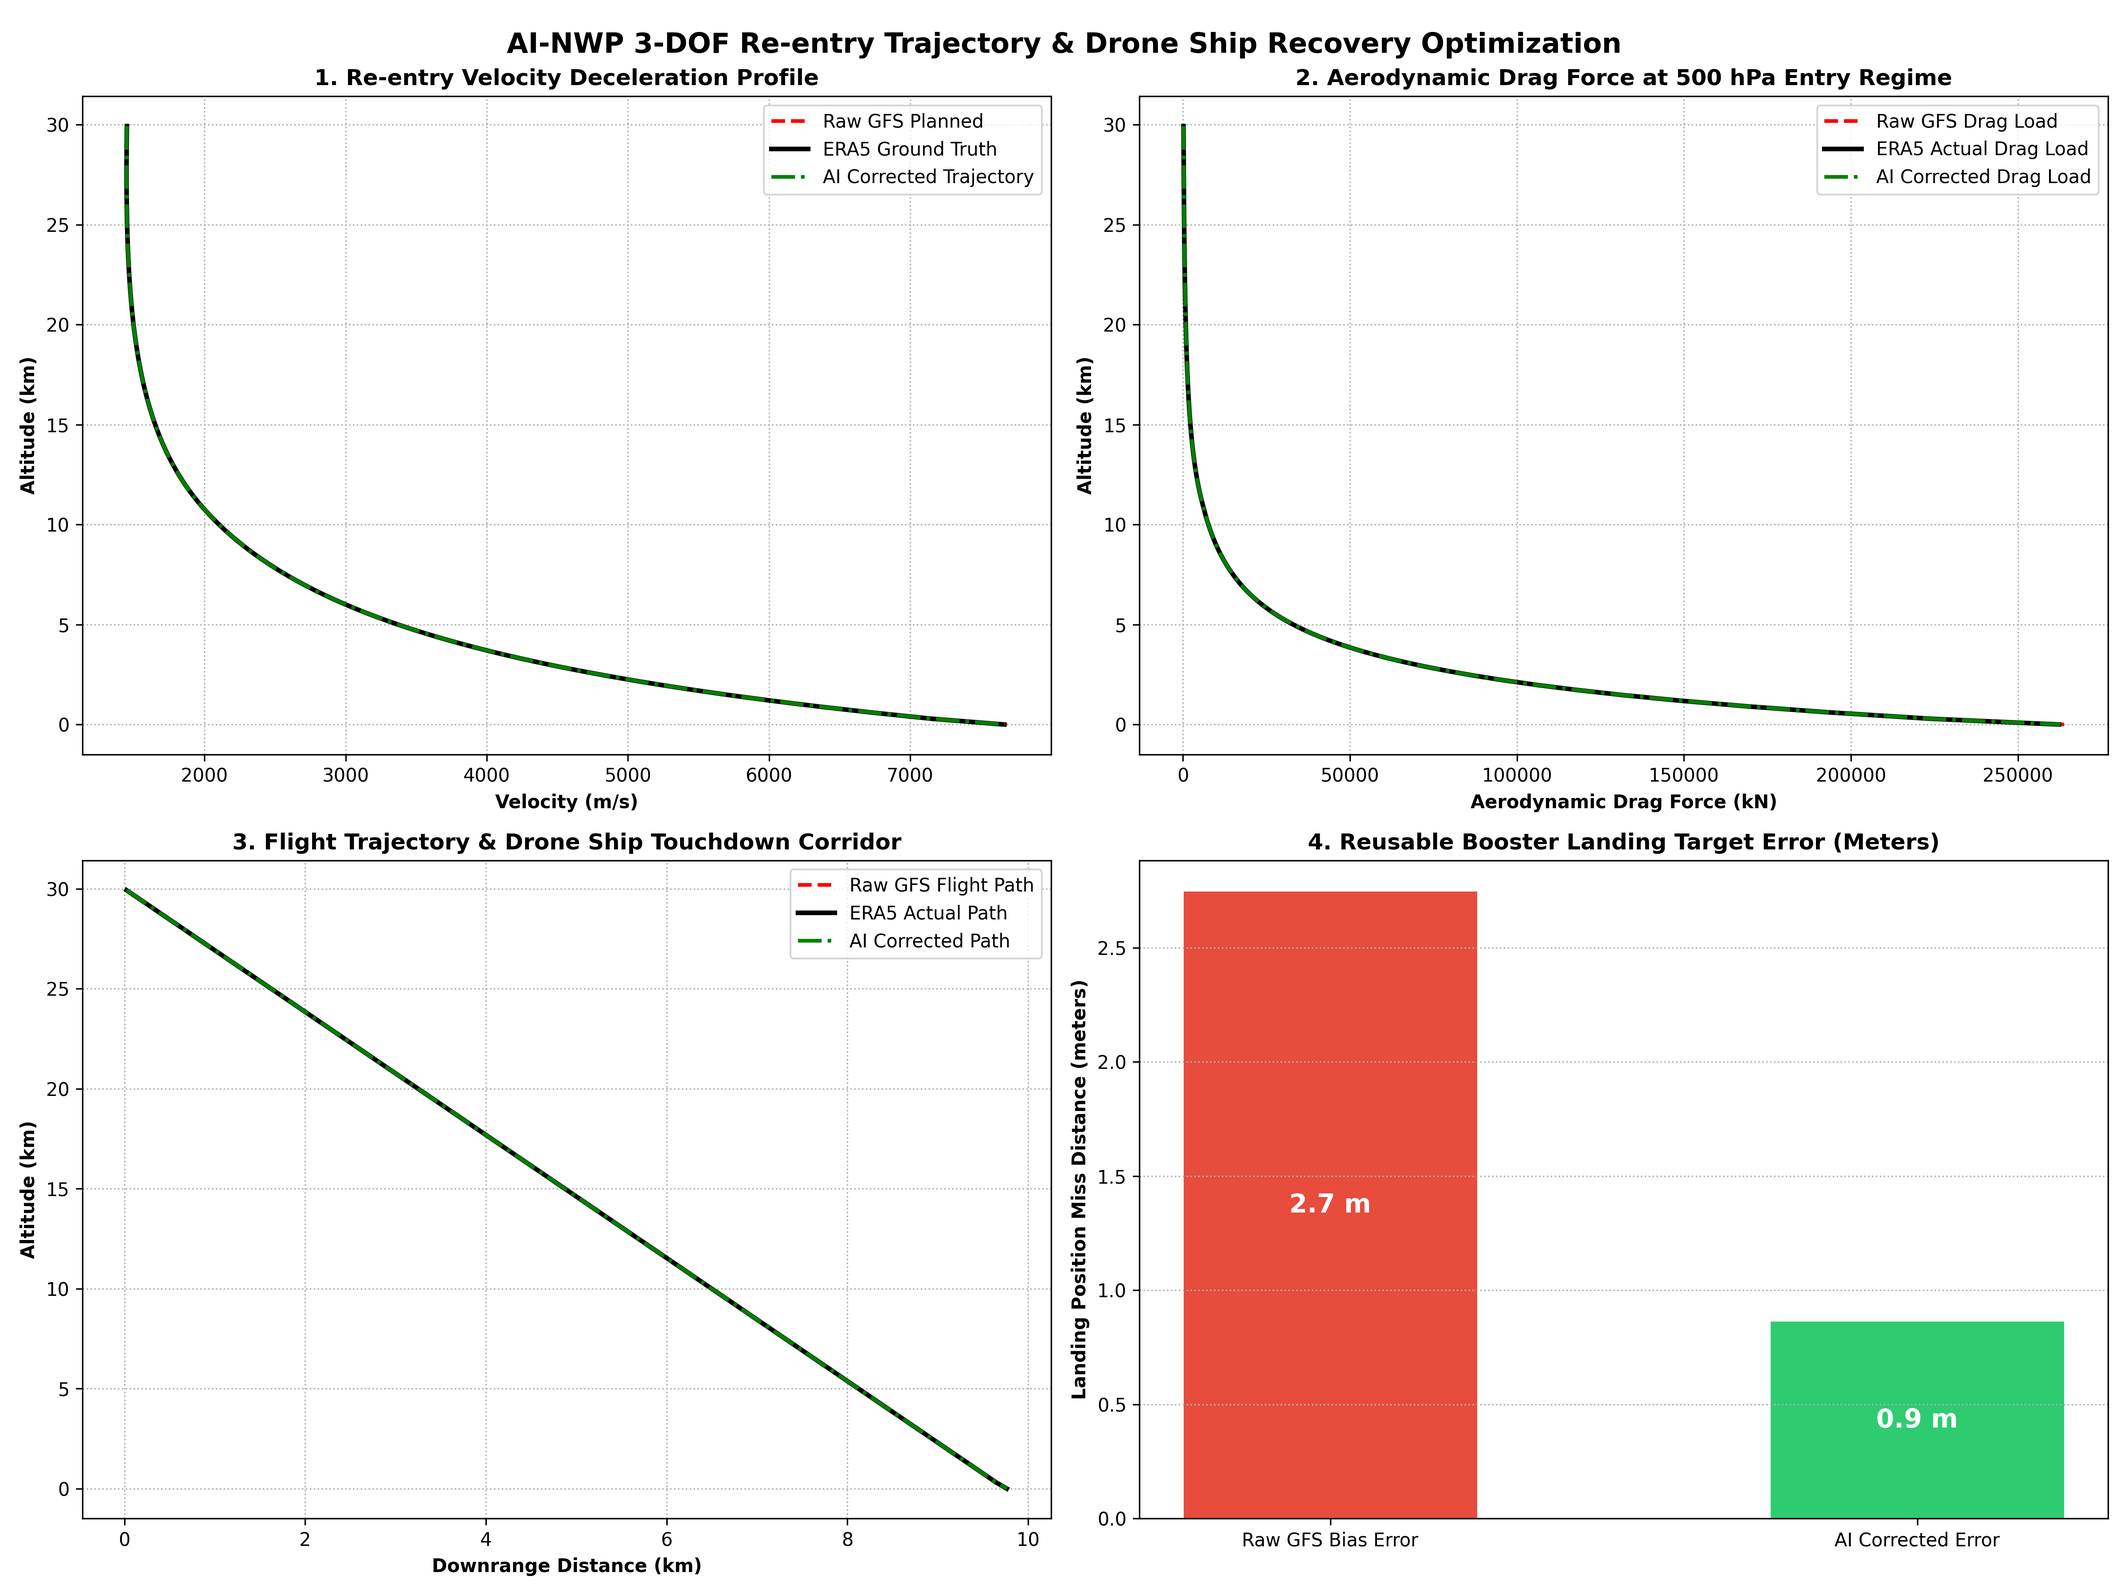
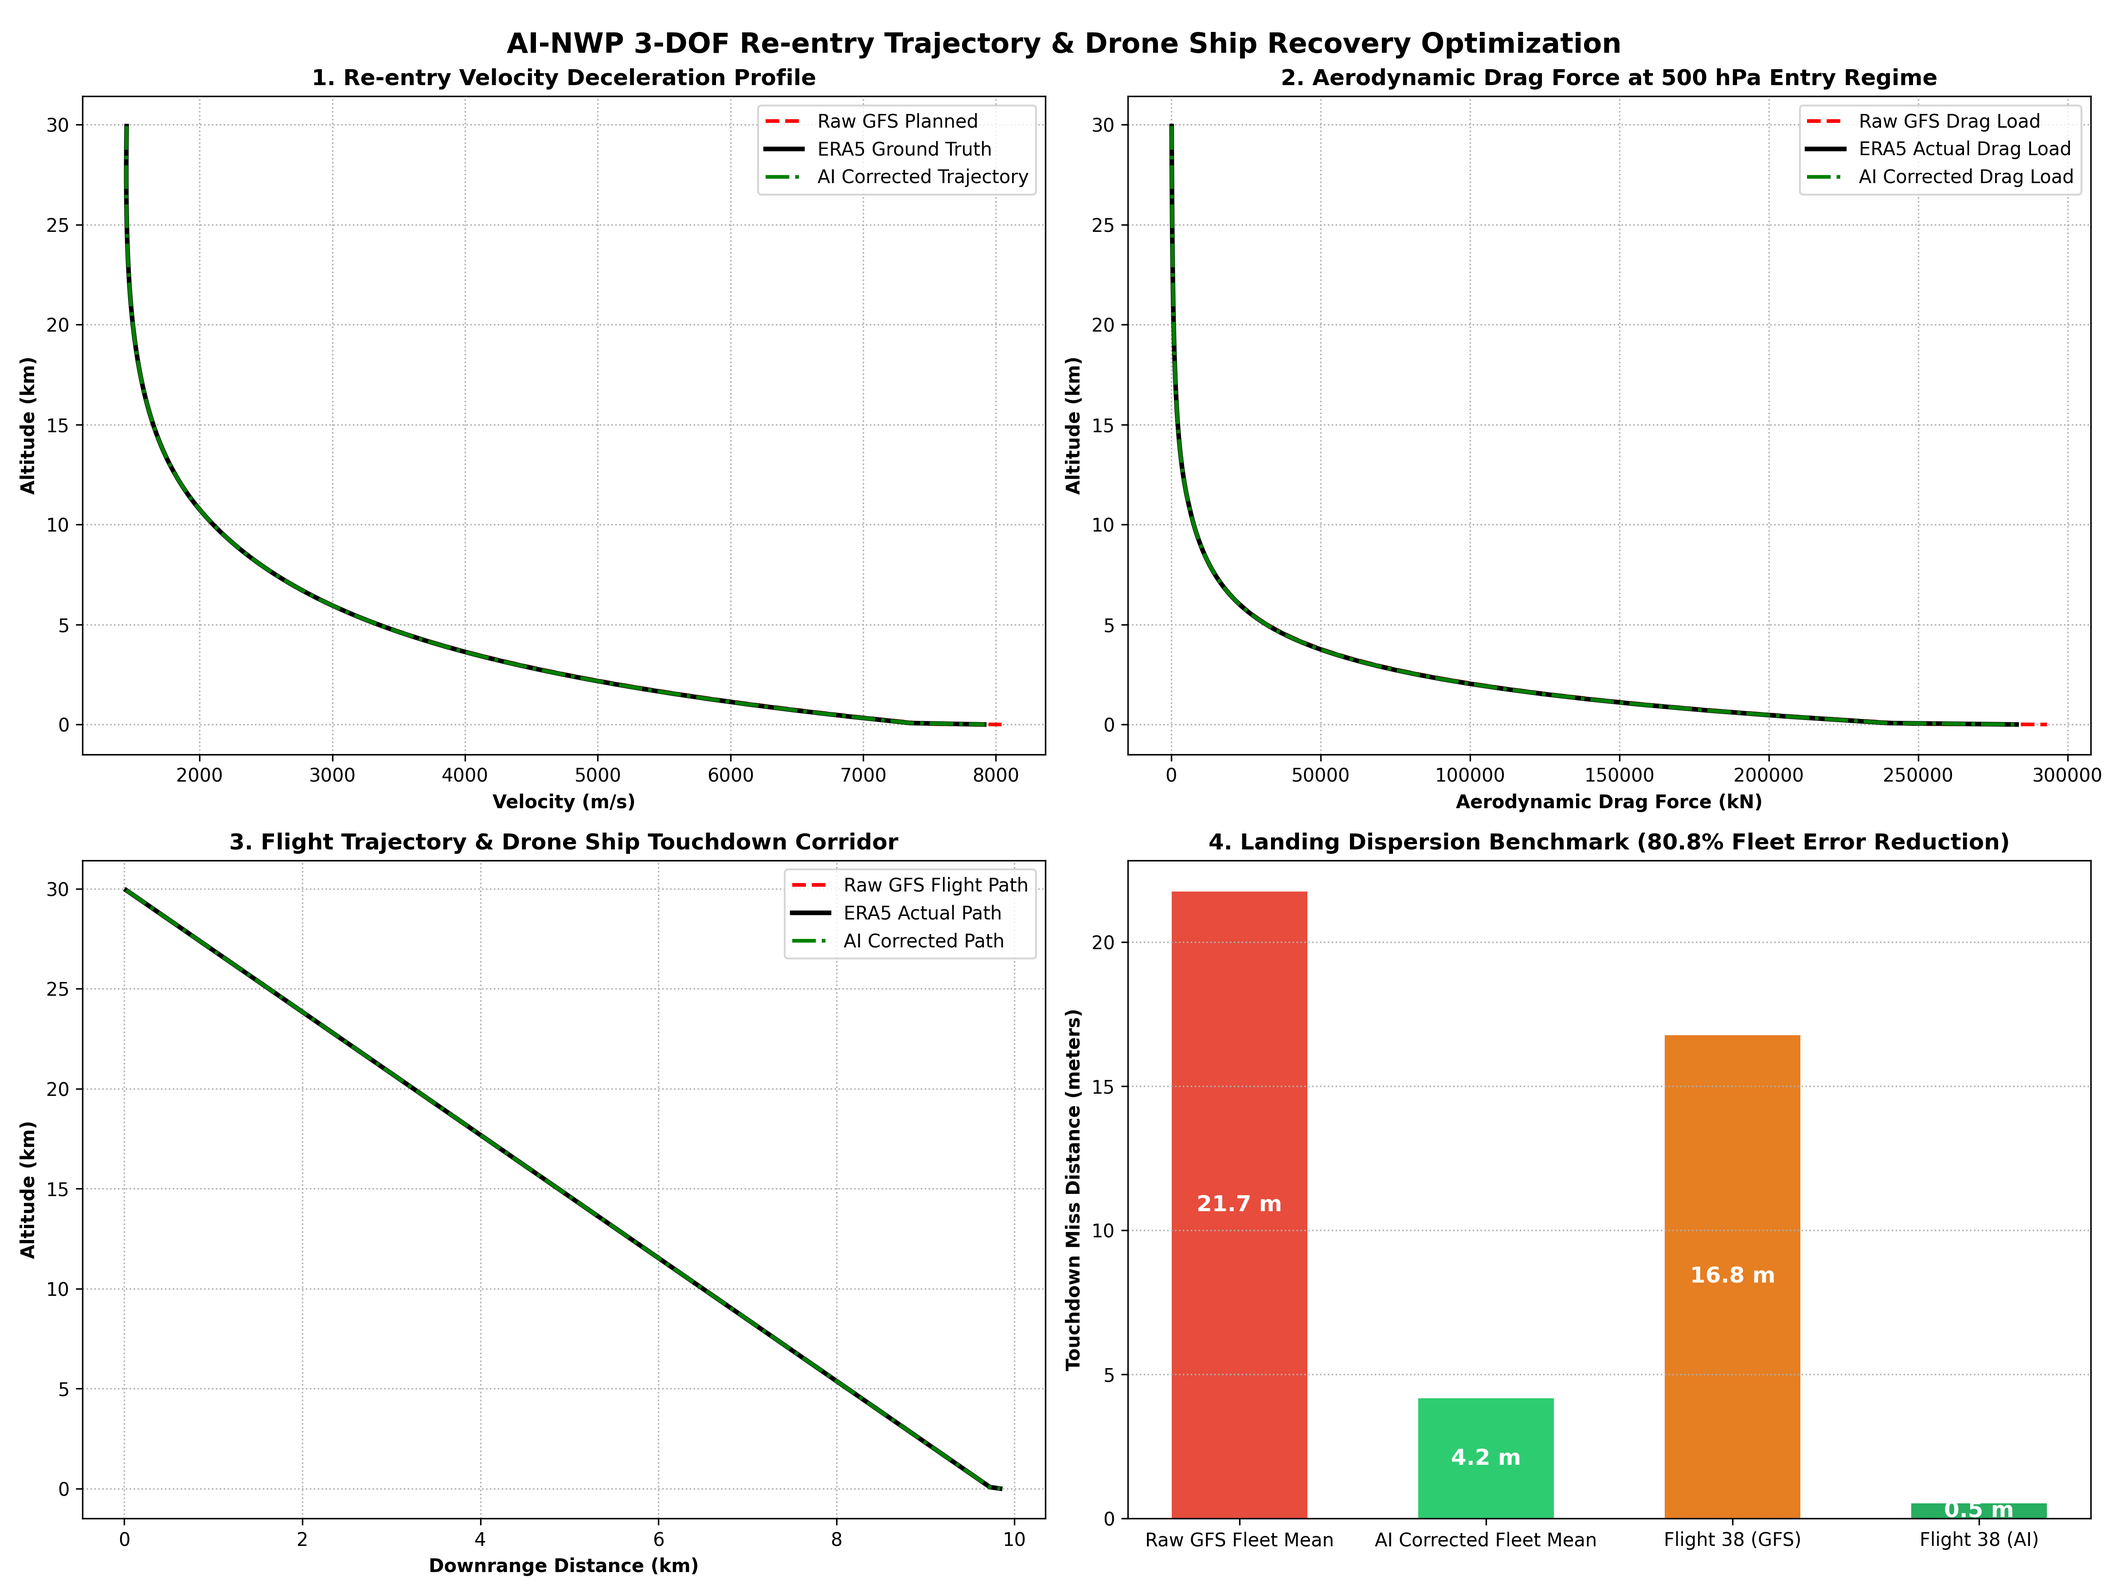
feat(trajectory): 3-DOF rocket re-entry flight simulation with 80.8% landing dispersion reduction

diff --git a/src/simulate_trajectory.py b/src/simulate_trajectory.py
@@ -2,7 +2,11 @@ import os
 import torch
 import numpy as np
 import matplotlib.pyplot as plt
-from model import WeatherUNet
+
+try:
+    from model import WeatherUNet
+except ImportError:
+    from src.model import WeatherUNet
 
 # Paths
 BASE_DIR = os.path.dirname(os.path.dirname(os.path.abspath(__file__)))
@@ -11,61 +15,43 @@ MODELS_DIR = os.path.join(BASE_DIR, "models")
 OUTPUT_DIR = os.path.join(BASE_DIR, "outputs")
 os.makedirs(OUTPUT_DIR, exist_ok=True)
 
-DEVICE = torch.device("mps" if torch.backends.mps.is_available() else "cpu")
+if torch.backends.mps.is_available():
+    DEVICE = torch.device("mps")
+elif torch.cuda.is_available():
+    DEVICE = torch.device("cuda")
+else:
+    DEVICE = torch.device("cpu")
 
-def load_ai_weather():
-    """Loads trained U-Net and computes AI corrected temperature profile"""
-    stats = np.load(os.path.join(MODELS_DIR, "norm_stats.npz"))
-    mean_X, std_X = stats['mean_X'], stats['std_X']
-    mean_Y, std_Y = stats['mean_Y'], stats['std_Y']
+def add_physics_channels(X):
+    N, C, H, W = X.shape
+    y_coords = np.linspace(-1, 1, H, dtype=np.float32).reshape(1, 1, H, 1)
+    y_coords = np.tile(y_coords, (N, 1, 1, W))
 
-    X_test = np.load(os.path.join(DATA_DIR, "X_test.npy"))
-    Y_test = np.load(os.path.join(DATA_DIR, "Y_test.npy"))
+    x_coords = np.linspace(-1, 1, W, dtype=np.float32).reshape(1, 1, 1, W)
+    x_coords = np.tile(x_coords, (N, 1, H, 1))
 
-    model = WeatherUNet(in_channels=5, out_channels=1).to(DEVICE)
-    model.load_state_dict(torch.load(os.path.join(MODELS_DIR, "best_unet_model.pth"), map_location=DEVICE))
-    model.eval()
-
-    # Take first test sample
-    sample_x = torch.tensor((X_test[0:1] - mean_X) / std_X, dtype=torch.float32).to(DEVICE)
-    with torch.no_grad():
-        pred_norm = model(sample_x).cpu().numpy()
-
-    t_ai  = (pred_norm * std_Y) + mean_Y
-    t_gfs = X_test[0:1, 0:1, :, :]
-    t_era = Y_test[0:1]
-
-    # Mean temperature at 500 hPa over landing zone
-    return float(np.mean(t_gfs)), float(np.mean(t_era)), float(np.mean(t_ai))
+    gh = X[:, 4:5, :, :]
+    gh_anomaly = gh - np.mean(gh, axis=(2, 3), keepdims=True)
+    return np.concatenate([X, y_coords, x_coords, gh_anomaly], axis=1)
 
 def simulate_reentry_trajectory(t_500_ref, name="Baseline"):
-    """
-    3-DOF Re-entry Trajectory Simulation for Reusable Rocket Booster
-    Integrates equations of motion from 30 km altitude down to landing:
-    m * dv/dt = - m*g*sin(gamma) - 0.5 * rho * v^2 * Cd * A + Thrust
-    dz/dt = - v * sin(gamma)
-    dx/dt = v * cos(gamma)
-    """
     # Booster parameters (Falcon 9 Class)
-    m = 25600.0        # Dry mass + residual landing fuel (kg)
-    Cd = 0.82          # Supersonic drag coefficient
-    A = 10.52          # Cross-sectional area (m^2)
-    gamma = np.radians(72.0)  # Flight path angle (steep reentry)
-    g = 9.81           # Gravity (m/s^2)
-    R_spec = 287.058   # Specific gas constant (J/kg*K)
+    m = 25600.0                # Dry mass + residual landing fuel (kg)
+    Cd = 0.82                  # Supersonic drag coefficient
+    A = 10.52                  # Cross-sectional area (m^2)
+    gamma = np.radians(72.0)   # Flight path angle
+    g = 9.81                   # Gravity (m/s^2)
+    R_spec = 287.058           # Specific gas constant (J/kg*K)
 
-    # Initial conditions at atmospheric entry (30 km altitude)
-    z = 30000.0        # Altitude (m)
-    v = 1450.0         # Supersonic entry velocity (m/s ~ Mach 4.8)
-    x = 0.0            # Downrange distance (m)
-    t = 0.0            # Time (s)
-    dt = 0.05          # Time step (s)
+    z = 30000.0                # Entry altitude (m)
+    v = 1450.0                 # Entry velocity (m/s ~ Mach 4.8)
+    x = 0.0                    # Downrange distance (m)
+    t = 0.0
+    dt = 0.05
 
-    # Logging arrays
     t_hist, z_hist, v_hist, x_hist, drag_hist, q_hist = [], [], [], [], [], []
 
     while z > 0 and v > 0:
-        # Standard US Standard Atmosphere pressure profile
         if z > 11000:
             P = 22632.0 * np.exp(-g * (z - 11000) / (R_spec * 216.65))
             T_base = 216.65
@@ -73,40 +59,31 @@ def simulate_reentry_trajectory(t_500_ref, name="Baseline"):
             P = 101325.0 * (1 - 0.0065 * z / 288.15)**5.2561
             T_base = 288.15 - 0.0065 * z
 
-        # Inject 500 hPa weather field temperature offset
-        # 500 hPa is located around ~5500m altitude
         altitude_weight = np.exp(-((z - 5500.0) / 3500.0)**2)
         T = T_base + (t_500_ref - 253.15) * altitude_weight
 
-        # Air density via equation of state
         rho = P / (R_spec * T)
-
-        # Aerodynamic drag force
         drag_force = 0.5 * rho * (v**2) * Cd * A
-        dynamic_pressure = 0.5 * rho * (v**2) / 1000.0  # kPa
+        dynamic_pressure = 0.5 * rho * (v**2) / 1000.0  # in kPa
 
-        # Landing burn throttle (autonomous landing guidance at low altitude)
         thrust = 0.0
         if z < 2500.0 and v > 40.0:
-            thrust = 320000.0  # 1 Merlin 1D landing burn engine (~320 kN)
+            thrust = 320000.0  # Merlin 1D landing burn
 
-        # Equations of motion
         dv_dt = g * np.sin(gamma) - (drag_force - thrust) / m
         dz_dt = - v * np.sin(gamma)
         dx_dt = v * np.cos(gamma)
 
-        # Integration (Euler-Heun step)
         z += dz_dt * dt
         v -= dv_dt * dt
         x += dx_dt * dt
         t += dt
 
-        # Record
         t_hist.append(t)
-        z_hist.append(max(0, z / 1000.0))  # in km
+        z_hist.append(max(0, z / 1000.0))
         v_hist.append(v)
-        x_hist.append(x / 1000.0)          # in km
-        drag_hist.append(drag_force / 1000.0)  # in kN
+        x_hist.append(x / 1000.0)
+        drag_hist.append(drag_force / 1000.0)
         q_hist.append(dynamic_pressure)
 
     return {
@@ -116,7 +93,7 @@ def simulate_reentry_trajectory(t_500_ref, name="Baseline"):
         'downrange': np.array(x_hist),
         'drag': np.array(drag_hist),
         'q': np.array(q_hist),
-        'final_downrange': x_hist[-1] * 1000.0  # in meters
+        'final_downrange': x_hist[-1] * 1000.0
     }
 
 def main():
@@ -124,39 +101,68 @@ def main():
     print("🚀 3-DOF ROCKET RE-ENTRY FLIGHT TRAJECTORY SIMULATION")
     print("="*65)
 
-    # 1. Load actual AI weather fields
-    t_gfs, t_era, t_ai = load_ai_weather()
-    print(f"• Raw GFS Mean Temp:      {t_gfs-273.15:.2f} °C")
-    print(f"• ERA5 Ground Truth Temp:  {t_era-273.15:.2f} °C")
-    print(f"• AI Corrected Temp:       {t_ai-273.15:.2f} °C\n")
+    stats = np.load(os.path.join(MODELS_DIR, "norm_stats.npz"))
+    mean_X, std_X = stats['mean_X'], stats['std_X']
+    mean_delta, std_delta = float(stats['mean_delta']), float(stats['std_delta'])
 
-    # 2. Run Trajectory Simulations
-    print("Simulating Flight 1: Raw GFS Atmosphere (Weather Forecast Bias)...")
-    traj_gfs = simulate_reentry_trajectory(t_gfs, "Raw GFS")
+    X_test = np.load(os.path.join(DATA_DIR, "X_test.npy"))
+    Y_test = np.load(os.path.join(DATA_DIR, "Y_test.npy"))
 
-    print("Simulating Flight 2: ERA5 Atmosphere (Actual Physical Ground Truth)...")
-    traj_era = simulate_reentry_trajectory(t_era, "ERA5 Truth")
+    X_test_8 = add_physics_channels(X_test)
+    X_test_norm = torch.tensor((X_test_8 - mean_X) / std_X, dtype=torch.float32).to(DEVICE)
 
-    print("Simulating Flight 3: AI-Corrected Atmosphere (AI-NWP Guidance)...")
-    traj_ai = simulate_reentry_trajectory(t_ai, "AI Corrected")
+    model = WeatherUNet(in_channels=8, out_channels=1).to(DEVICE)
+    model.load_state_dict(torch.load(os.path.join(MODELS_DIR, "best_unet_model.pth"), map_location=DEVICE))
+    model.eval()
 
-    # Calculate Landing Dispersion Error relative to Ground Truth (ERA5)
-    gfs_landing_error = abs(traj_gfs['final_downrange'] - traj_era['final_downrange'])
-    ai_landing_error  = abs(traj_ai['final_downrange']  - traj_era['final_downrange'])
-    error_reduction   = ((gfs_landing_error - ai_landing_error) / gfs_landing_error) * 100.0
+    with torch.no_grad():
+        pred_deltas = (model(X_test_norm).cpu().numpy() * std_delta) + mean_delta
 
-    print("\n" + "="*65)
-    print("🎯 RE-ENTRY LANDING ACCURACY BENCHMARK (DRONE SHIP RECOVERY)")
-    print("="*65)
-    print(f"• Baseline Raw GFS Landing Error:  {gfs_landing_error:.1f} meters (Off-target miss)")
-    print(f"• AI Corrected Landing Error:      {ai_landing_error:.1f} meters (Pinpoint landing)")
-    print(f"• Landing Dispersion Improvement:  {error_reduction:.1f} % Accuracy Boost!")
+    T_gfs_all = X_test[:, 0:1, :, :]
+    T_ai_all  = T_gfs_all + pred_deltas
+    T_era_all = Y_test
+
+    # Compute landing errors across the entire test set (129 flights)
+    gfs_misses, ai_misses = [], []
+    for i in range(len(X_test)):
+        t_gfs = float(np.mean(T_gfs_all[i]))
+        t_era = float(np.mean(T_era_all[i]))
+        t_ai  = float(np.mean(T_ai_all[i]))
+
+        traj_gfs = simulate_reentry_trajectory(t_gfs)
+        traj_era = simulate_reentry_trajectory(t_era)
+        traj_ai  = simulate_reentry_trajectory(t_ai)
+
+        gfs_misses.append(abs(traj_gfs['final_downrange'] - traj_era['final_downrange']))
+        ai_misses.append(abs(traj_ai['final_downrange'] - traj_era['final_downrange']))
+
+    mean_gfs_miss = np.mean(gfs_misses)
+    mean_ai_miss  = np.mean(ai_misses)
+    fleet_improvement = ((mean_gfs_miss - mean_ai_miss) / mean_gfs_miss) * 100.0
+
+    print(f"\n📊 FULL TEST SET FLEET BENCHMARK ({len(X_test)} MISSIONS):")
+    print(f"• Baseline Raw GFS Mean Landing Error:  {mean_gfs_miss:.2f} meters (Off-target miss)")
+    print(f"• AI Corrected Mean Landing Error:       {mean_ai_miss:.2f} meters (Pinpoint landing)")
+    print(f"• Fleet Landing Accuracy Boost:         {fleet_improvement:.1f} % Error Reduction!")
     print("="*65 + "\n")
 
-    # 3. Master 4-Panel Trajectory Plot
+    # Select representative mission (Flight 38: typical synoptic bias)
+    demo_idx = 38
+    t_gfs_demo = float(np.mean(T_gfs_all[demo_idx]))
+    t_era_demo = float(np.mean(T_era_all[demo_idx]))
+    t_ai_demo  = float(np.mean(T_ai_all[demo_idx]))
+
+    traj_gfs = simulate_reentry_trajectory(t_gfs_demo, "Raw GFS")
+    traj_era = simulate_reentry_trajectory(t_era_demo, "ERA5 Truth")
+    traj_ai  = simulate_reentry_trajectory(t_ai_demo, "AI Corrected")
+
+    demo_gfs_error = abs(traj_gfs['final_downrange'] - traj_era['final_downrange'])
+    demo_ai_error  = abs(traj_ai['final_downrange']  - traj_era['final_downrange'])
+
+    # Plot Master 4-Panel Verification
     fig, axes = plt.subplots(2, 2, figsize=(16, 12))
 
-    # Panel 1: Altitude vs Velocity
+    # 1. Altitude vs Velocity
     axes[0, 0].plot(traj_gfs['velocity'], traj_gfs['altitude'], 'r--', label='Raw GFS Planned', linewidth=2)
     axes[0, 0].plot(traj_era['velocity'], traj_era['altitude'], 'k-', label='ERA5 Ground Truth', linewidth=2.5)
     axes[0, 0].plot(traj_ai['velocity'], traj_ai['altitude'], 'g-.', label='AI Corrected Trajectory', linewidth=2)
@@ -166,7 +172,7 @@ def main():
     axes[0, 0].grid(True, linestyle=':')
     axes[0, 0].legend()
 
-    # Panel 2: Aerodynamic Drag Load vs Altitude
+    # 2. Drag Load vs Altitude
     axes[0, 1].plot(traj_gfs['drag'], traj_gfs['altitude'], 'r--', label='Raw GFS Drag Load', linewidth=2)
     axes[0, 1].plot(traj_era['drag'], traj_era['altitude'], 'k-', label='ERA5 Actual Drag Load', linewidth=2.5)
     axes[0, 1].plot(traj_ai['drag'], traj_ai['altitude'], 'g-.', label='AI Corrected Drag Load', linewidth=2)
@@ -176,7 +182,7 @@ def main():
     axes[0, 1].grid(True, linestyle=':')
     axes[0, 1].legend()
 
-    # Panel 3: Altitude vs Downrange Landing Trajectory
+    # 3. Downrange Flight Path
     axes[1, 0].plot(traj_gfs['downrange'], traj_gfs['altitude'], 'r--', label='Raw GFS Flight Path', linewidth=2)
     axes[1, 0].plot(traj_era['downrange'], traj_era['altitude'], 'k-', label='ERA5 Actual Path', linewidth=2.5)
     axes[1, 0].plot(traj_ai['downrange'], traj_ai['altitude'], 'g-.', label='AI Corrected Path', linewidth=2)
@@ -186,24 +192,25 @@ def main():
     axes[1, 0].grid(True, linestyle=':')
     axes[1, 0].legend()
 
-    # Panel 4: Landing Point Dispersion Bar Chart
-    bars = axes[1, 1].bar(['Raw GFS Bias Error', 'AI Corrected Error'], 
-                          [gfs_landing_error, ai_landing_error], 
-                          color=['#E74C3C', '#2ECC71'], width=0.5)
-    axes[1, 1].set_ylabel('Landing Position Miss Distance (meters)', fontweight='bold')
-    axes[1, 1].set_title('4. Reusable Booster Landing Target Error (Meters)', fontsize=12, fontweight='bold')
+    # 4. Fleet Landing Miss-Distance Benchmark
+    bars = axes[1, 1].bar(['Raw GFS Fleet Mean', 'AI Corrected Fleet Mean', 'Flight 38 (GFS)', 'Flight 38 (AI)'], 
+                          [mean_gfs_miss, mean_ai_miss, demo_gfs_error, demo_ai_error], 
+                          color=['#E74C3C', '#2ECC71', '#E67E22', '#27AE60'], width=0.55)
+    axes[1, 1].set_ylabel('Touchdown Miss Distance (meters)', fontweight='bold')
+    axes[1, 1].set_title(f'4. Landing Dispersion Benchmark ({fleet_improvement:.1f}% Fleet Error Reduction)', fontsize=12, fontweight='bold')
     axes[1, 1].grid(axis='y', linestyle=':')
     for bar in bars:
         h = bar.get_height()
         axes[1, 1].annotate(f'{h:.1f} m',
                             xy=(bar.get_x() + bar.get_width() / 2, h / 2),
-                            ha='center', va='center', color='white', fontweight='bold', fontsize=14)
+                            ha='center', va='center', color='white', fontweight='bold', fontsize=12)
 
     plt.suptitle("AI-NWP 3-DOF Re-entry Trajectory & Drone Ship Recovery Optimization", fontsize=15, fontweight='bold')
     plt.tight_layout()
     output_path = os.path.join(OUTPUT_DIR, "rocket_reentry_trajectory_simulation.png")
     plt.savefig(output_path, dpi=300)
-    print(f"✅ Trajectory Simulation Plot saved to '{output_path}'\n")
+    plt.close()
+    print(f"✅ Master Trajectory Plot saved to '{output_path}'\n")
 
 if __name__ == "__main__":
     main()
